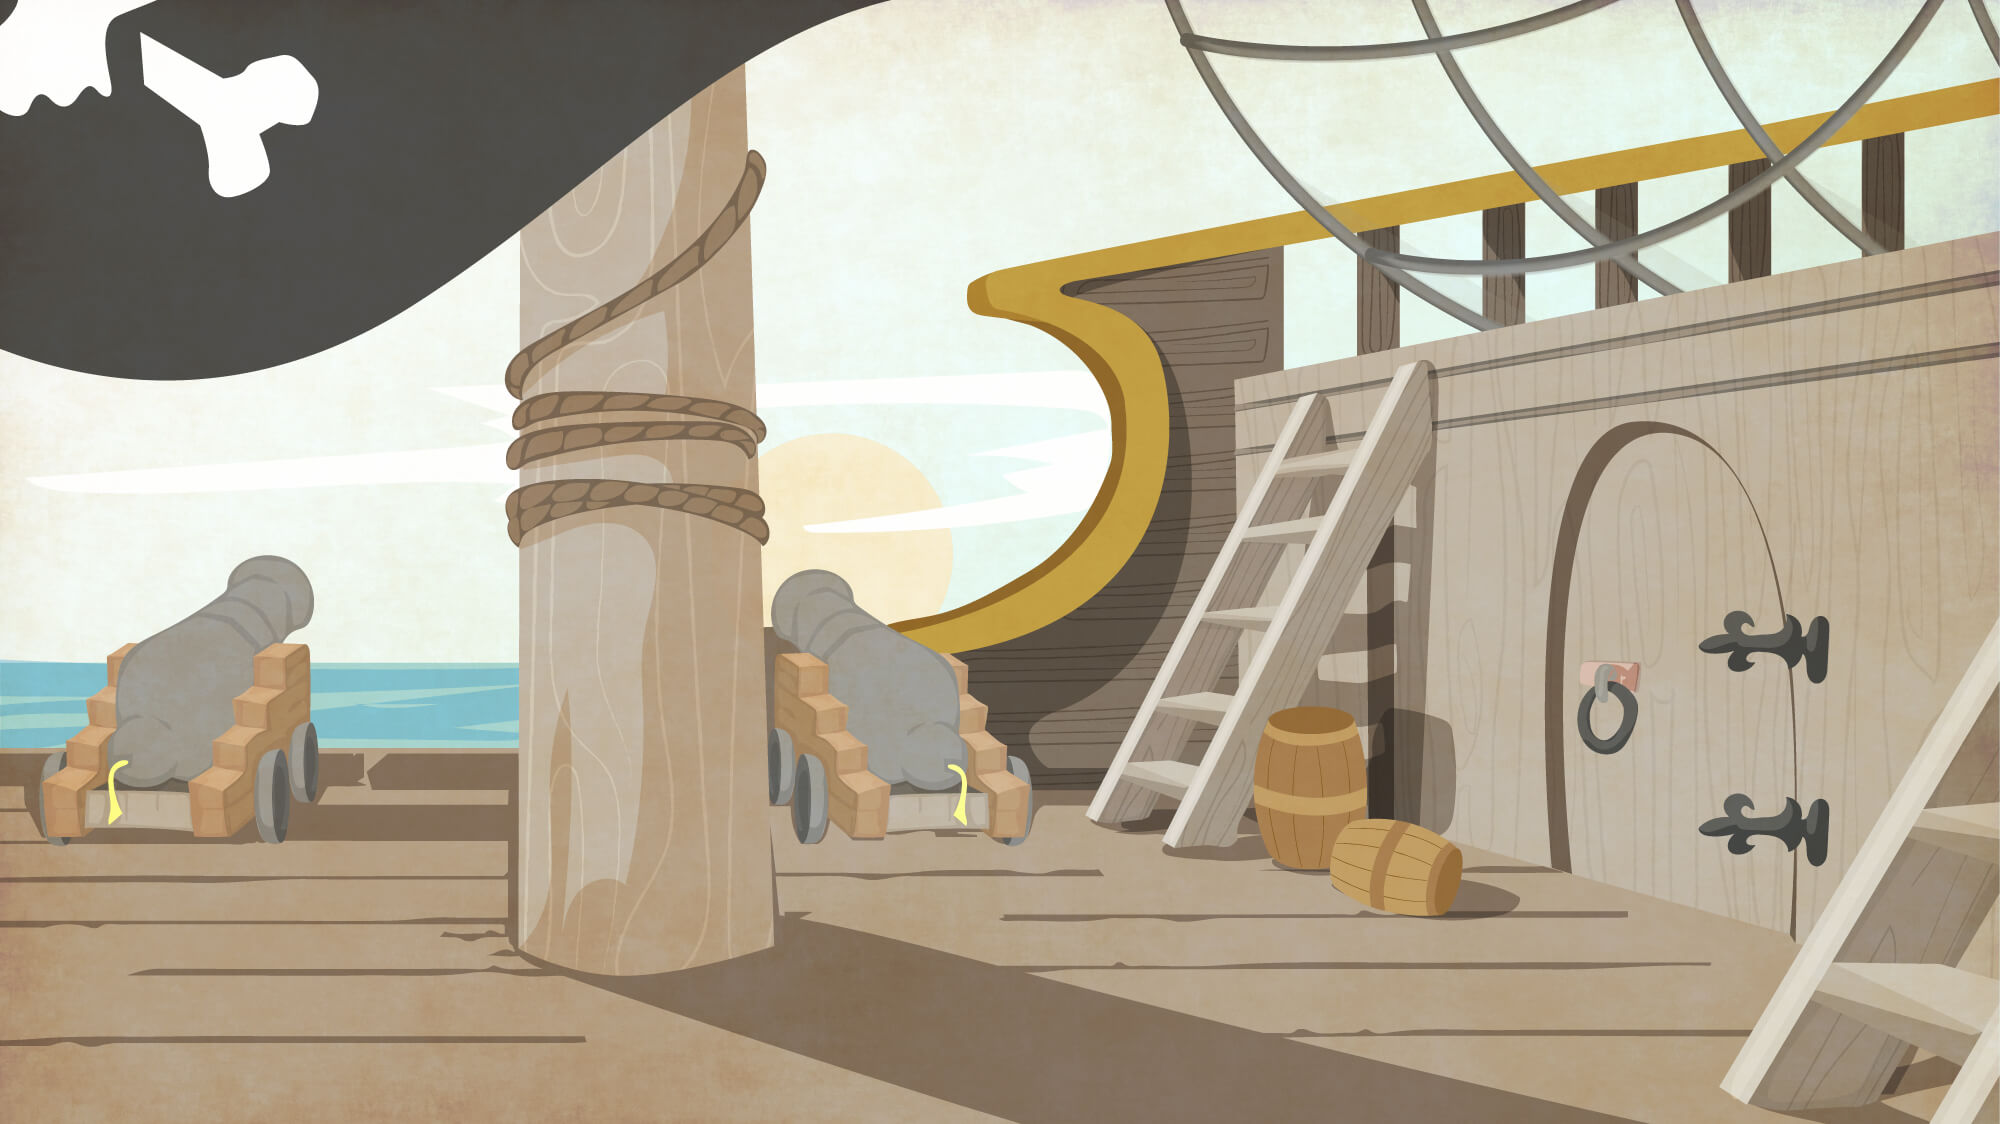
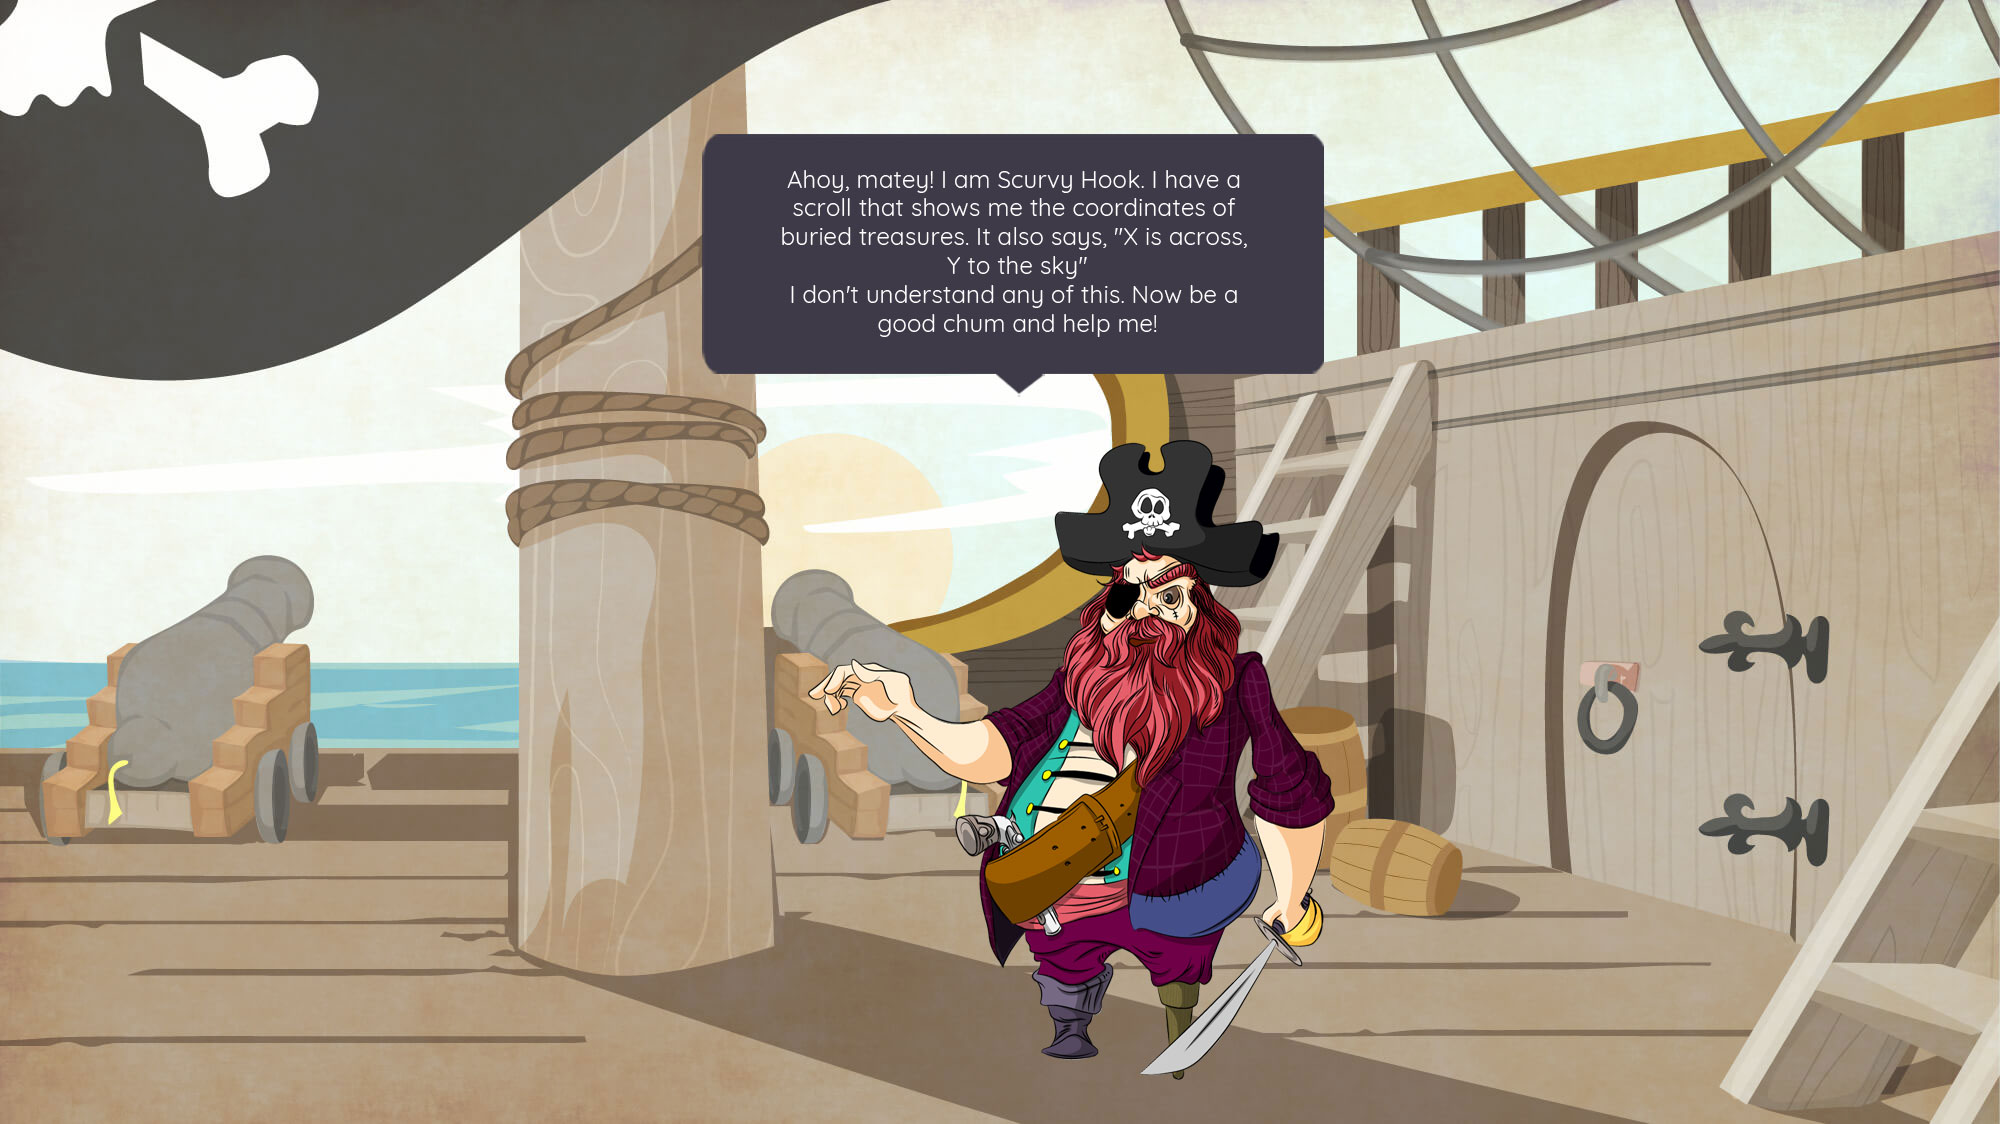
treasure-hunt-storyline

Changed region(s): [[0.403, 0.3737, 0.682, 0.9653], [0.341, 0.0934, 0.682, 0.3425]]

diff --git a/src/app/data/storyline.ts b/src/app/data/storyline.ts
@@ -4,6 +4,11 @@ export const stories = {
             './assets/images/activities/fox_and_grapes/fox_activity_bg.jpg'
         ]
     },
+    treasure_hunt: {
+        backgroundImgs: [
+            './assets/images/activities/treasure_hunt/bg_storyline.jpg'
+        ]
+    },
     magical_cave: {
         backgroundImgs: [
             './assets/images/activities/magical_cave/storyline.jpg'
